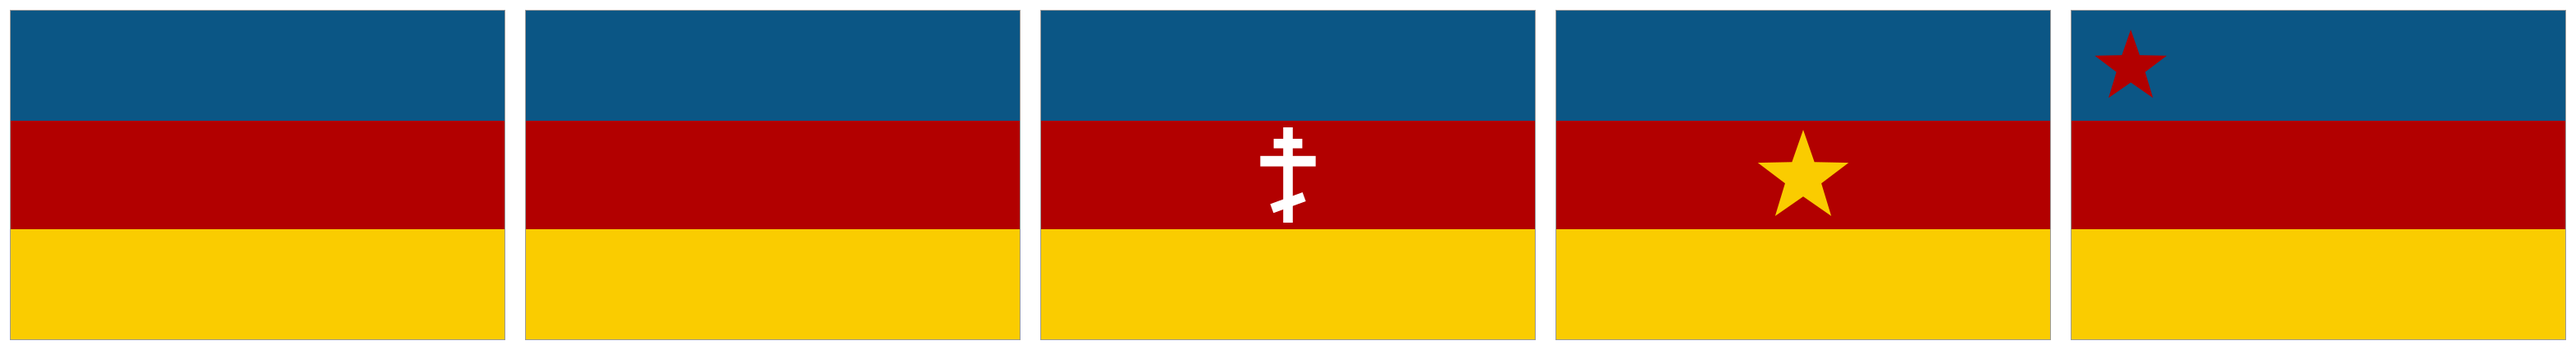
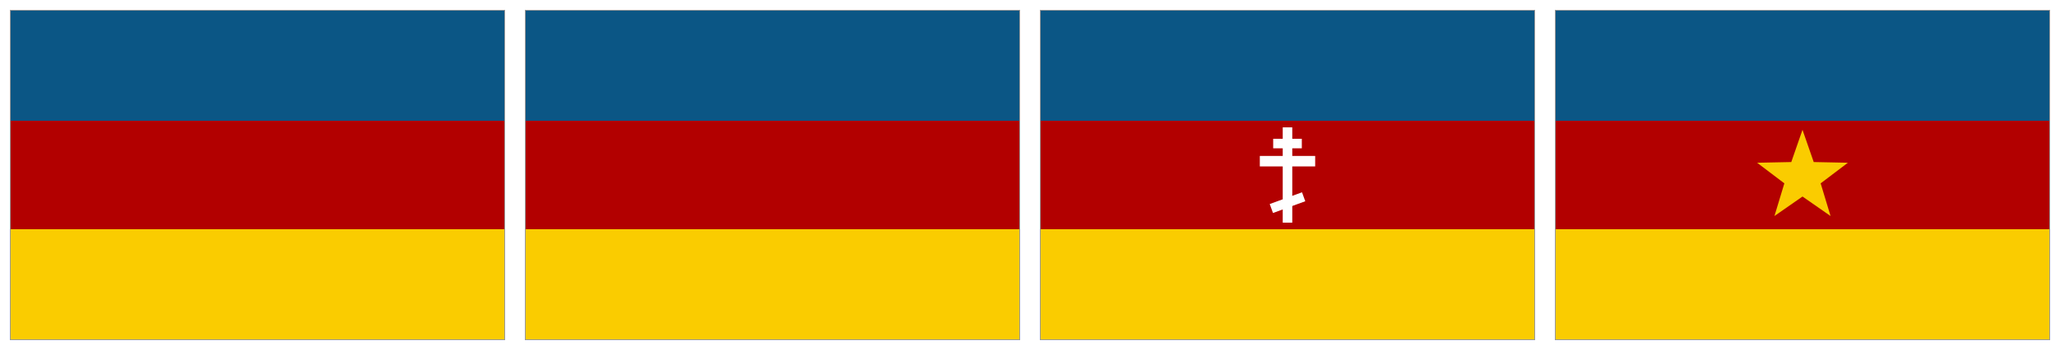
Panonia rewolucja: wybrany wariant z żółtą gwiazdą
Claude-Session: https://claude.ai/code/session_01PNyJEgjZDVeUSFrp2WbnmN

diff --git a/gfx_koncepty/flagi_dacja/generuj_flagi.py b/gfx_koncepty/flagi_dacja/generuj_flagi.py
@@ -27,10 +27,8 @@ F={
  'panonia_2_monarchia': svg(TRI),
  # Teokracja unicka (biskupi Timișoary w unii z Rzymem, obrządek wschodni): trójbarwa jak republika, na środku biały krzyż trójbelkowy
  'panonia_3_teokracja': svg(TRI+krzyz_trojbelkowy(150,71,58,W)),
- # Panonia rewolucyjna A: trójbarwa jak republika, mała żółta gwiazda na czerwonym pasie
- 'panonia_4a_rewolucja': svg(TRI+star(150,101.5,29,Y)),
- # Panonia rewolucyjna B: trójbarwa jak republika, czerwona gwiazda na błękicie przy drzewcu
- 'panonia_4b_rewolucja': svg(TRI+star(36,34.5,23,R)),
+ # Panonia rewolucyjna: trójbarwa jak republika, mała żółta gwiazda na czerwonym pasie
+ 'panonia_4_rewolucja': svg(TRI+star(150,101.5,29,Y)),
 }
 for k,v in F.items():
     p=os.path.join(HERE,k+'.svg'); open(p,'w').write(v)

diff --git a/gfx_koncepty/flagi_dacja/README.md b/gfx_koncepty/flagi_dacja/README.md
@@ -7,8 +7,7 @@ Płaskie flagi 3:2 (SVG 1536×1024) i podgląd PNG, generowane skryptem `generuj
 | panonia_1_republika | Republika Panońska (katolicki zachód Dacji między Karpatami a Cisą, jeśli się oderwie): błękit, czerwień i żółć (wzór od autora moda) |
 | panonia_2_monarchia | Królestwo Panonii: ta sama trójbarwa co republika |
 | panonia_3_teokracja | Teokracja unicka (biskupi Timișoary w unii z Rzymem, obrządek wschodni): trójbarwa jak republika, mały biały krzyż trójbelkowy na czerwonym pasie |
-| panonia_4a_rewolucja | Panonia rewolucyjna (wariant A): trójbarwa jak republika, mała żółta gwiazda na czerwonym pasie |
-| panonia_4b_rewolucja | Panonia rewolucyjna (wariant B): trójbarwa jak republika, czerwona gwiazda na błękicie przy drzewcu |
+| panonia_4_rewolucja | Panonia rewolucyjna: trójbarwa jak republika, mała żółta gwiazda na czerwonym pasie |
 
 Podgląd: [panonia_arkusz.png](panonia_arkusz.png).
 
